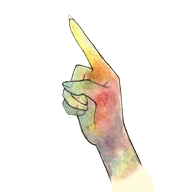
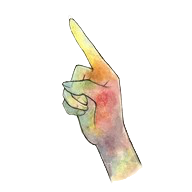
feat: improvements by jhene + hand cursor

diff --git a/assets/css/components.css b/assets/css/components.css
@@ -2185,27 +2185,72 @@ body:has(.aponte-logo--hero) .brand {
   letter-spacing: 0.01em;
 }
 
-/* nav quieto no topo da home: /sobre e o CTA de produtor */
-.home-topnav {
-  display: flex;
-  justify-content: space-between;
-  gap: var(--s-3);
+/* topo da home: nav + hero. No mobile empilha (nav, hero); no desktop vira
+   masthead — hero no canto esquerdo, links no direito, MESMA faixa, pra marca
+   não ficar visualmente "embaixo" dos links */
+.home-top {
+  display: grid;
+  gap: var(--s-4);
 }
 
-/* ── home: edition cards, o destaque da página ─────────────────────────────
-   Nome da edição primeiro e maior (é o que vende o rolê); data/hora como
-   metadado logo abaixo, org+local por último. A borda esquerda grossa carrega
-   o --accent inline de cada org. */
+@media (min-width: 960px) {
+  .home-top {
+    grid-template-columns: minmax(0, 1fr) auto;
+    align-items: start;
+  }
+
+  .home-top .shell-hero {
+    grid-column: 1;
+    grid-row: 1;
+    /* wordmark nasce na mesma linha de topo dos links: sem isso o brand
+       centrava contra a caixa alta da mão e afundava abaixo da top-line */
+    align-items: start;
+  }
+
+  .home-top .home-topnav {
+    grid-column: 2;
+    grid-row: 1;
+    /* mesma linha de topo do hero: masthead e links nascem juntos */
+    align-self: start;
+  }
+}
+
+/* nav quieto no topo da home: /sobre e o CTA de produtor, agrupados no canto
+   direito — o canto esquerdo do topo é do hero (a marca), não de link solto */
+.home-topnav {
+  display: flex;
+  justify-content: flex-end;
+  gap: var(--s-4);
+}
+
+/* ── home: edition cards, flyer-style ─────────────────────────────────────
+   Stub de arte full-bleed à esquerda (quadrado, como flyer colado na parede);
+   conteúdo à direita: nome da edição grande, data em display font com o chip
+   de urgência colado no mesmo cluster, org+local como rodapé sob hairline.
+   A arte carrega o --accent da org (tinta do painel), então o card dispensa
+   a borda esquerda grossa. */
+/* cursor da casa: a mãozinha da marca é o pointer em TODO clicável do site
+   (hotspot na ponta do dedo; fallback pointer se a imagem falhar). Inputs de
+   texto ficam de fora — o I-beam é affordance, não se mexe nele */
+a,
+button,
+select,
+summary,
+input[type="submit"],
+input[type="checkbox"],
+input[type="radio"] {
+  cursor: url("/images/aponte-cursor.png") 5 3, pointer;
+}
+
 .edition-card {
   display: grid;
-  grid-template-columns: auto minmax(0, 1fr);
-  gap: var(--s-3);
+  grid-template-columns: minmax(6.5rem, 2fr) minmax(0, 3fr);
+  gap: 0;
   height: 100%;
-  padding: var(--s-4);
-  /* a identidade da org tinge o card inteiro, não só a borda esquerda */
+  padding: 0;
+  overflow: hidden;
   background: color-mix(in srgb, var(--accent) 5%, var(--surface));
   border: 1px solid var(--accent-soft);
-  border-inline-start: 3px solid var(--accent);
   border-radius: var(--radius-lg);
   color: var(--fg);
   transition:
@@ -2224,38 +2269,46 @@ body:has(.aponte-logo--hero) .brand {
   box-shadow: var(--shadow-2);
 }
 
-/* slot do logo: ocupa a coluna esquerda INTEIRA do card (stretch), com ou sem
-   upload (sem logo entra a inicial da org), então todos os cards guardam a
-   mesma caixa de logo */
+/* painel de arte: quadrado full-bleed, colado nas bordas do card. Sem upload
+   entra a inicial da org grande, então todos os cards guardam a mesma caixa.
+   Conteúdo mais alto que o quadrado estica o painel (img cover aguenta). */
 .edition-card-logo {
   display: grid;
   place-items: center;
-  width: 6rem;
-  border-radius: var(--radius-sm);
+  width: 100%;
+  aspect-ratio: 1;
   background: color-mix(in srgb, var(--accent) 14%, var(--surface));
   color: var(--fg);
   font-weight: 700;
-  font-size: var(--text-xl);
+  font-size: var(--text-2xl);
   overflow: hidden;
 }
 
 .edition-card-logo img {
   width: 100%;
   height: 100%;
-  object-fit: contain;
+  object-fit: cover;
 }
 
-/* coluna direita do card: data, nome da edição e org+local empilhados */
+/* coluna direita do card: nome, data e org+local empilhados, centrados na
+   altura do painel de arte */
 .edition-card-main {
   display: flex;
   flex-direction: column;
-  gap: var(--s-1);
+  justify-content: center;
+  gap: var(--s-2);
   min-width: 0;
+  padding: var(--s-4);
 }
 
+/* data no card: um cluster só — hora, dia e chip colados (gap s-2), quebra
+   de linha permitida pro chip nunca vazar da borda no mobile */
 .edition-card .date-duo {
-  font-size: var(--text-base);
-  color: var(--fg-muted);
+  flex-wrap: wrap;
+  align-items: center;
+  gap: var(--s-1) var(--s-2);
+  font-size: var(--text-lg);
+  color: var(--fg);
 }
 
 /* chip de urgência ("hoje" / "amanhã") dentro do date-duo: pill no accent da
@@ -2273,36 +2326,48 @@ body:has(.aponte-logo--hero) .brand {
   letter-spacing: 0.08em;
   line-height: 1.6;
   text-transform: uppercase;
+  white-space: nowrap;
 }
 
 .edition-card-name {
   font-size: var(--text-xl);
   font-weight: 700;
   line-height: 1.15;
+  text-wrap: balance;
 }
 
-/* org + local: linha própria e legível, não metadado apagado. Presa no rodapé
-   do card (margin auto) pra alinhar os cards da mesma linha do grid. */
+/* org + local: rodapé do card sob hairline, corpo menor e apagado — metadado
+   de quem assina, não protagonista */
 .edition-card-org {
-  margin-block-start: auto;
+  margin-block-start: var(--s-1);
+  padding-block-start: var(--s-2);
+  border-block-start: 1px solid var(--accent-soft);
   color: var(--fg-muted);
-  font-size: var(--text-base);
+  font-size: var(--text-sm);
 }
 
-/* auto-fill com largura mínima generosa: no mobile cada card ocupa a linha
-   toda (empilha); telas maiores encaixam 2 por linha sem media queries
-   nem casos especiais por card; os itens esticam (stretch) por linha */
+/* auto-fit (não fill): trilhas vazias colapsam, então um card sozinho cresce
+   até o teto de 34rem e CENTRA no container em vez de ficar perdido à esquerda;
+   2+ cards dividem a linha (min 22rem cada) sem media query */
 .home-orgs {
   display: grid;
-  grid-template-columns: repeat(auto-fill, minmax(min(22rem, 100%), 1fr));
+  grid-template-columns: repeat(auto-fit, minmax(min(22rem, 100%), 34rem));
+  justify-content: center;
   gap: var(--s-3);
 }
 
 /* section label da home em corpo maior e cor cheia: é o título da vitrine,
-   não metadado quieto */
+   não metadado quieto. No desktop os cards centram no container, então o
+   título acompanha (solto à esquerda parecia desconectado dos cards) */
 .section-label--home {
   color: var(--fg);
   font-size: var(--text-sm);
+}
+
+@media (min-width: 960px) {
+  .section-label--home {
+    text-align: center;
+  }
 }
 
 /* título de seção no /sobre ("Pra quem faz rolê") */
@@ -2335,6 +2400,13 @@ body:has(.aponte-logo--hero) .brand {
   .shell-hero .hand-print {
     width: 9rem;
     --hand-tilt: 2deg;
+  }
+
+  /* home: com align-items:start a CAIXA da mão nasce na top-line, mas o PNG
+     tem ~8% de padding transparente — sobe a caixa pra ponta do dedo
+     acompanhar a cap-line do wordmark */
+  .shell-hero--home .hand-print {
+    margin-block-start: -0.75rem;
   }
 
   .shell-hero .hand-print--sobre {
